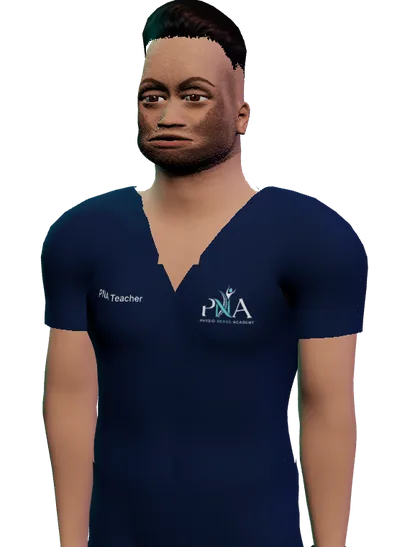
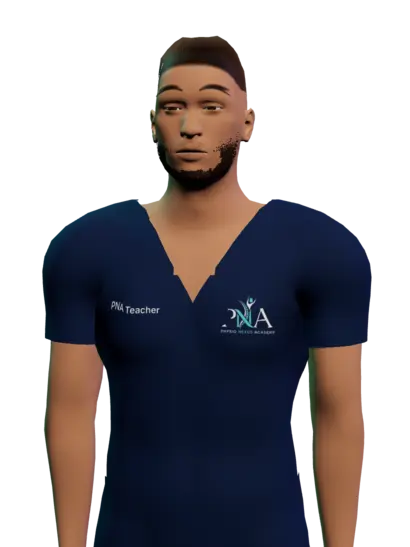
Homepage guide card: the PNA Teacher picture is the new teacher, in a futuristic hologram frame
The card showed a static picture (pna-teacher-poster.webp) of the OLD teacher, so the face redesign never reached the homepage. The poster is now rendered
from the current 3D teacher (the patient's own head, new hair and beard, a closer three-quarter view; 11.6 KB, smaller than before).

The picture sits in a hologram frame: corner brackets, a glowing base disc, a scan line that sweeps the figure (scan lines on the body only, never the face),
an "AI Teaching Assistant" status chip, and the floating labels raised above the picture. Motion stops for visitors who prefer reduced motion.

Claude-Session: https://claude.ai/code/session_01EBnziPgvTt5ytnqGQvRaR1

Changed region(s): [[0.0878, 0.0, 0.878, 1.0], [0.6732, 0.4351, 0.9073, 1.0], [0.2341, 0.5283, 0.3805, 0.5905]]

diff --git a/src/components/avatar/guide-me.css b/src/components/avatar/guide-me.css
@@ -17,16 +17,34 @@
 .gm-hint { display: inline-flex; align-items: center; gap: 6px; font-size: 0.82rem; font-weight: 600; color: #8fa6bf; }
 
 /* the portrait: a glowing disc behind a transparent render, with three floating labels */
-.gm-visual { position: relative; justify-self: center; width: min(100%, 300px); aspect-ratio: 410 / 520; }
+.gm-visual { position: relative; justify-self: center; width: min(100%, 310px); aspect-ratio: 410 / 547; isolation: isolate; }
+/* hologram frame: four glowing corner brackets */
+.gm-visual::before { content: ""; position: absolute; inset: -2% -3%; z-index: 3; pointer-events: none; background:
+  linear-gradient(#2ee6d6, #2ee6d6) top left / 26px 2px no-repeat, linear-gradient(#2ee6d6, #2ee6d6) top left / 2px 26px no-repeat,
+  linear-gradient(#2ee6d6, #2ee6d6) top right / 26px 2px no-repeat, linear-gradient(#2ee6d6, #2ee6d6) top right / 2px 26px no-repeat,
+  linear-gradient(#8f7cff, #8f7cff) bottom left / 26px 2px no-repeat, linear-gradient(#8f7cff, #8f7cff) bottom left / 2px 26px no-repeat,
+  linear-gradient(#8f7cff, #8f7cff) bottom right / 26px 2px no-repeat, linear-gradient(#8f7cff, #8f7cff) bottom right / 2px 26px no-repeat;
+  filter: drop-shadow(0 0 6px rgba(46, 230, 214, 0.7)); }
 .gm-ring { position: absolute; border-radius: 50%; pointer-events: none; }
 .gm-ring-a { inset: 6% -4% 14% -4%; border: 1px solid rgba(46, 230, 214, 0.4); box-shadow: 0 0 40px rgba(46, 230, 214, 0.18), inset 0 0 40px rgba(46, 230, 214, 0.1); background: radial-gradient(closest-side, rgba(46, 230, 214, 0.16), transparent 72%); }
 .gm-ring-b { inset: 0 -12% 6% -12%; border: 1px dashed rgba(143, 124, 255, 0.45); animation: gm-spin 60s linear infinite; }
-.gm-poster { position: absolute; inset: 0; width: 100%; height: 100%; object-fit: contain; object-position: center bottom; filter: drop-shadow(0 18px 30px rgba(0, 0, 0, 0.5)); }
-.gm-badge { position: absolute; padding: 6px 12px; border-radius: 999px; font-size: 0.7rem; font-weight: 800; letter-spacing: 0.04em; color: #eaf6ff; background: rgba(8, 28, 56, 0.78); border: 1px solid rgba(46, 230, 214, 0.5); backdrop-filter: blur(6px); box-shadow: 0 8px 22px -10px rgba(0, 0, 0, 0.7); white-space: nowrap; animation: gm-float 6s ease-in-out infinite; }
+.gm-poster { position: absolute; inset: 0; z-index: 1; width: 100%; height: 100%; object-fit: contain; object-position: center bottom; filter: drop-shadow(0 0 16px rgba(46, 230, 214, 0.3)) drop-shadow(0 18px 30px rgba(0, 0, 0, 0.5)); -webkit-mask-image: linear-gradient(#000 82%, transparent 100%); mask-image: linear-gradient(#000 82%, transparent 100%); }
+/* the hologram base under the figure */
+.gm-base { position: absolute; left: 6%; right: 6%; bottom: 1%; height: 15%; z-index: 0; border-radius: 50%; border: 1px solid rgba(46, 230, 214, 0.55); background: radial-gradient(closest-side, rgba(46, 230, 214, 0.34), rgba(46, 230, 214, 0.06) 70%, transparent); box-shadow: 0 0 30px rgba(46, 230, 214, 0.35), inset 0 0 22px rgba(46, 230, 214, 0.25); }
+.gm-base::after { content: ""; position: absolute; inset: 18% 14%; border-radius: 50%; border: 1px dashed rgba(143, 124, 255, 0.55); }
+/* a scan line sweeps the figure; faint scan lines sit over it */
+.gm-scan { position: absolute; inset: 0; z-index: 2; pointer-events: none; overflow: hidden; border-radius: 18px; background: repeating-linear-gradient(0deg, rgba(46, 230, 214, 0.06) 0 1px, transparent 1px 4px); -webkit-mask-image: linear-gradient(180deg, transparent 38%, #000 62%, transparent 94%); mask-image: linear-gradient(180deg, transparent 38%, #000 62%, transparent 94%); }
+.gm-scan::after { content: ""; position: absolute; left: 0; right: 0; height: 16%; top: -16%; background: linear-gradient(180deg, transparent, rgba(46, 230, 214, 0.38), transparent); mix-blend-mode: screen; animation: gm-sweep 5.5s ease-in-out infinite; }
+.gm-tag { position: absolute; left: 50%; top: -5%; z-index: 4; transform: translateX(-50%); display: inline-flex; align-items: center; gap: 7px; padding: 5px 12px; border-radius: 999px; font-size: 0.64rem; font-weight: 800; letter-spacing: 0.14em; text-transform: uppercase; white-space: nowrap; color: #bff7f1; background: rgba(4, 20, 42, 0.85); border: 1px solid rgba(46, 230, 214, 0.55); box-shadow: 0 0 18px -4px rgba(46, 230, 214, 0.6); }
+.gm-tag i { width: 7px; height: 7px; border-radius: 50%; background: #2ee6d6; box-shadow: 0 0 8px #2ee6d6; animation: gm-blink 1.8s ease-in-out infinite; }
+@keyframes gm-sweep { 0% { top: -16%; } 100% { top: 100%; } }
+@keyframes gm-blink { 0%, 100% { opacity: 1; } 50% { opacity: 0.35; } }
+.gm-badge { position: absolute; z-index: 4; padding: 6px 12px; border-radius: 999px; font-size: 0.7rem; font-weight: 800; letter-spacing: 0.04em; color: #eaf6ff; background: rgba(8, 28, 56, 0.78); border: 1px solid rgba(46, 230, 214, 0.5); backdrop-filter: blur(6px); box-shadow: 0 8px 22px -10px rgba(0, 0, 0, 0.7); white-space: nowrap; animation: gm-float 6s ease-in-out infinite; }
 .gm-badge-a { left: -6%; top: 20%; }
 .gm-badge-b { right: -8%; top: 50%; animation-delay: -2s; }
 .gm-badge-c { left: 4%; bottom: 8%; animation-delay: -4s; color: #03202a; background: #2ee6d6; border-color: #2ee6d6; }
 @keyframes gm-spin { to { transform: rotate(360deg); } }
+@media (prefers-reduced-motion: reduce) { .gm-scan::after, .gm-tag i, .gm-ring-b, .gm-badge { animation: none; } }
 @keyframes gm-float { 0%, 100% { transform: translateY(0); } 50% { transform: translateY(-6px); } }
 
 .gm-stage { min-width: 0; }

diff --git a/src/components/avatar/GuideMe.tsx b/src/components/avatar/GuideMe.tsx
@@ -105,7 +105,10 @@ export function GuideMe() {
             <div className="gm-visual" aria-hidden="true">
               <span className="gm-ring gm-ring-a" />
               <span className="gm-ring gm-ring-b" />
+              <span className="gm-base" />
               <img src="/teacher/pna-teacher-poster.webp" alt="" width={410} height={547} loading="lazy" decoding="async" className="gm-poster" />
+              <span className="gm-scan" />
+              <span className="gm-tag"><i />AI Teaching Assistant</span>
               <span className="gm-badge gm-badge-a">3D demos</span>
               <span className="gm-badge gm-badge-b">English · Roman Urdu</span>
               <span className="gm-badge gm-badge-c">Ask anything</span>
